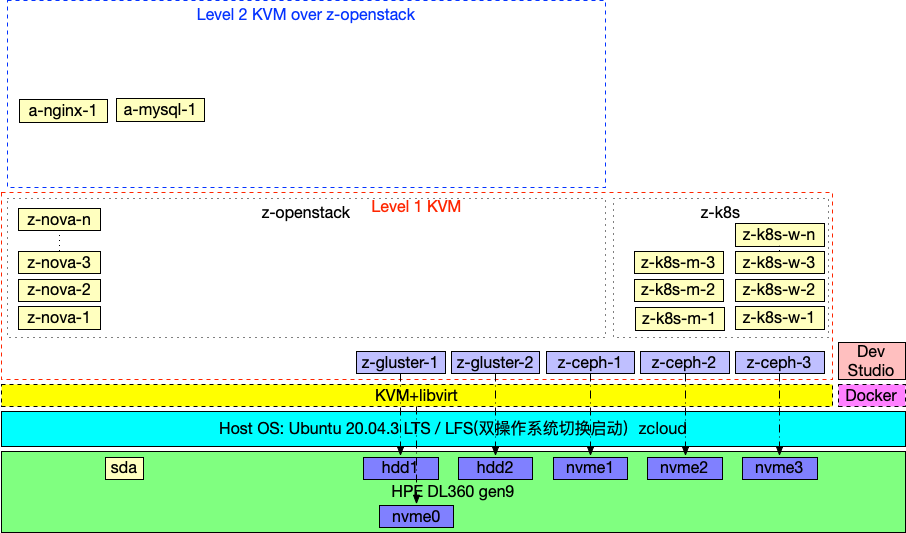
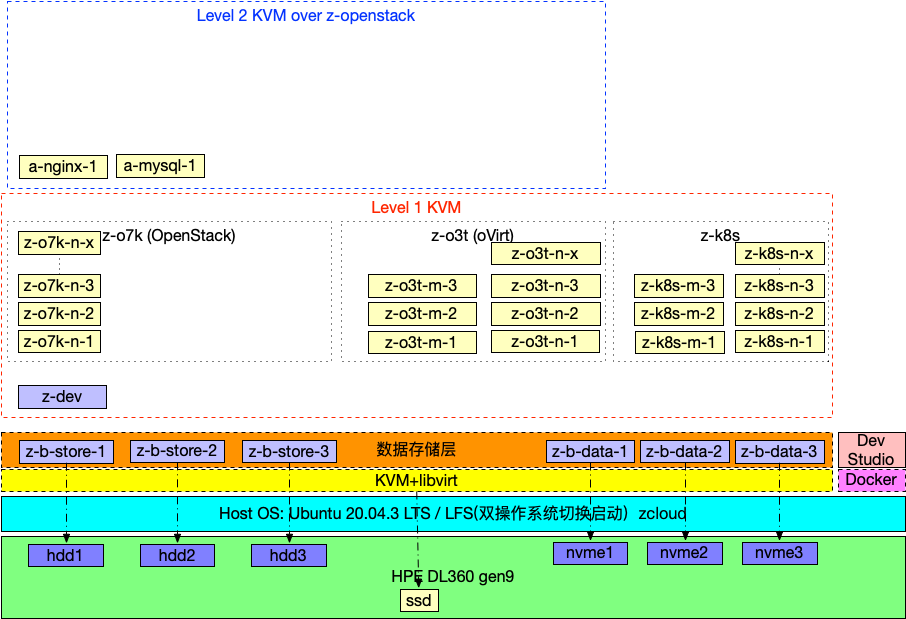
update

diff --git a/source/real/private_cloud/priv_cloud_infra.rst b/source/real/private_cloud/priv_cloud_infra.rst
@@ -73,7 +73,7 @@
 
       - :ref:`gluster`
 
-    - ``data`` : 技术服务数据服务:
+    - ``data`` : 基础服务数据服务:
 
       - :ref:`ceph`
       - :ref:`redis`
@@ -84,6 +84,54 @@
       - :ref:`pgsql`
 
   - 第四字段 表示节点序号数字
+
+虚拟化的层级部署
+=================
+
+数据存储层(data)
+----------------------
+
+在 ``zcloud`` 底层虚拟化上，我采用完全手工方式构建最基础的存储数据的虚拟机:
+
+- ``z-b-data-1`` / ``z-b-data-2`` / ``z-b-data-3`` 是通过 :ref:`ovmf` 虚拟机pass-through读写 :ref:`samsung_pm9a1` 的高性能存储虚拟机
+
+  - 所有依赖高速存储的基础服务，如 :ref:`ceph` / :ref:`mysql` / :ref:`redis` 等都部署在这3个虚拟机内部
+  - 这3个虚拟机只依赖 :ref:`kvm` 和 :ref:`libvirt` ，并且在物理主机启动时自动启动运行，提供基础数据服务
+  - :ref:`ceph` 是最关键的存储服务: 除了 ``数据存储层`` 这3台虚拟机直接存储数据之外，其他虚拟机(包括第一层虚拟化和第二层虚拟化)的磁盘镜像全部存储在 :ref:`ceph` 之中
+
+    - 你可以将这个数据存储层 Ceph 看成类似于阿里云的 ``盘古`` 分布式存储，开天劈地: 这样所有其他虚拟机都不需要占用本地磁盘(事实上作为 ``zcloud`` 主机的系统盘 ``ssd`` 空间非常狭小)
+    - 分布式存储提供了网络共享访问，同时提供了数据镜像容灾，这样运行的虚拟机可以在网络上不同的计算节点迁移: 例如，我可以在网络中加入我的笔记本或者台式机来模拟一个物理节点，共享访问Ceph存储，实现把虚拟机热迁移过去，从而减轻服务器的压力
+
+- ``z-b-store-1`` / ``z-b-store-2`` / ``z-b-store-3`` 是直接访问服务器上3块 2.5" 机械硬盘，提供 :ref:`gluster` 存储服务
+
+  - 数据备份和恢复
+  - 离线数据和近线数据存储，后续考虑实现一个容灾系统模拟
+  
+第一层虚拟化
+-----------------
+
+- ``z-o7k`` 系列构建 :ref:`openstack` 集群
+
+  - 采用 :ref:`ubuntu_linux` 20.04 部署
+  - 启用 :ref:`kvm_nested_virtual` 实现第二层虚拟化
+
+- ``z-o3t`` 系列构建 :ref:`ovirt` 集群
+
+  - 采用 :ref:`centos` 8 部署
+  - 启用 :ref:`kvm_nested_virtual` 实现第二层虚拟化
+  - 实现 :ref:`stratis` 存储
+
+- ``z-k8s`` 系列构建 :ref:`kubernetes` 集群
+
+  - 采用 :ref:`ubuntu_linux` 20.04 部署
+  - 采用 :ref:`vgpu` 将 :ref:`tesla_p10` 输出到多个工作节点虚拟机，实现分布式 :ref:`machine_learning`
+
+第一层虚拟化的虚拟机也采用手工方式部署，部署用于构建集群的虚拟机都采用 ``数据存储层`` 的 :ref:`ceph` ``RBD`` ，不使用任何本地磁盘: 虚拟机计算节点可以任意迁移。
+
+第二层虚拟化
+--------------
+
+- 基于第一层虚拟化部署的 :ref:`openstack` 和 :ref:`ovirt` 实现自动化部署
 
 Kubernetes私有云
 ==================

diff --git a/source/linux/storage/filesystem/gpt.rst b/source/linux/storage/filesystem/gpt.rst
@@ -1,0 +1,30 @@
+.. _gpt:
+
+===============
+GPT分区表
+===============
+
+GPT分区表支持多少分区?
+========================
+
+我在 :ref:`hpe_dl360_gen9` 服务器上安装 :ref:`samsung_pm9a1` :ref:`nvme` 存储，构建 :ref:`priv_cloud_infra` 所需要的存储服务。由于硬件设备有限，我计划在3块NVMe的 :ref:`ovmf` 虚拟机构建多种需要高速存储支持的服务: :ref:`ceph` , :ref:`redis` , :ref:`mysql` , :ref:`pgsql` ... 
+
+这就带来一个问题: 如果我不使用 :ref:`lvm` (性能考虑需要降低存储层次) 而采用简洁的分区表，那么一块磁盘究竟支持多少(primary)分区?
+
+我从开始学习计算机(第一本启蒙书是 《MS-DOS技术大全》)，就知道DOS的MBR分区只支持最多4个primary partition，即使将第4个分区改成扩展分区，也只能支持有限的26个英文字母命名的(扩展分区之上的)逻辑分区。显然，我不愿使用逻辑分区(一旦逻辑分区出错会毁掉所在扩展分区上所有逻辑分区)，但是4个主分区也不能满足我众多的服务部署要求。
+
+现代操作系统都开始使用GPT分区表，特别是2T以上磁盘只能使用GPT分区表。那么GPT分区表能否解决这个问题，GPT分区表最多直至多少分区呢?
+
+遇事不决问谷歌: 果然在Google搜索中输入 ``how many primary partitions are supported on gpt disks`` (其实是google提示) 赫然给出答案:
+
+``128 partitions``
+
+成了，可以直接使用GPT分区来构建之后多服务的虚拟机存储。不过，对于GPT分区表，我还需要再学习和巩固知识，后续补上...
+
+参考
+========
+
+- `wikipedia: GUID Partition Table <https://en.wikipedia.org/wiki/GUID_Partition_Table>`_
+- `What’s the Difference Between GPT and MBR When Partitioning a Drive? <https://www.howtogeek.com/193669/whats-the-difference-between-gpt-and-mbr-when-partitioning-a-drive/>`_
+- `Midrosoft Windows Manufacture Desktop manufacturing: UEFI/GPT-based hard drive partitions <https://docs.microsoft.com/en-us/windows-hardware/manufacture/desktop/configure-uefigpt-based-hard-drive-partitions?view=windows-11>`_
+- `What Is GPT Disk and How to Manage GPT Disk <https://www.easeus.com/partition-master/partition-gpt-disk.html>`_

diff --git a/source/kvm/iommu/compare_iommu_native_nvme.rst b/source/kvm/iommu/compare_iommu_native_nvme.rst
@@ -106,12 +106,22 @@
 
    我第一次测试 :ref:`ovmf` 虚拟机，设置了 ``1c2g`` 规格。实际上上述随机读写测试采用了4个job，我观察了实际上会把4个CPU核心打满。对于 ``1c2g`` 虚拟机由于只有1个cpu，会导致性能无法满足并发4个读写进程对要求: 测试结果读写性能只有物理主机的 1/4 不到
 
-   第二次测试我分配了4cpu的虚拟机，并发果然跑满4个vcpu之后，虚拟机存储性能基本上接近物理主机存储性能: 随机4k读写性能 92% ~ 94% ，顺序读写性能 99%
+   第二次测试我分配了4cpu的虚拟机，并发果然跑满4个vcpu之后，虚拟机存储性能基本上接近物理主机存储性能
 
 .. csv-table:: IOMMU虚拟机和物理机 NVMe性能对比
    :file: compare_iommu_native_nvme/compare_iommu_native_nvme.csv
-   :widths: 25, 25, 25, 25
+   :widths: 14, 15, 15, 15, 15, 15, 11
    :header-rows: 1
+
+- 采用 iommu 方式pass-through NVMe存储给虚拟机，结合了 :ref:`ovmf` (uefi)虚拟机 + :ref:`iommu_cpu_pinning` ，可以接近直接物理主机读写NVMe性能: 随机4k读写性能 92% ~ 94% ，顺序读写性能 99%
+
+  - 后续准备实践 :ref:`huge_memory_pages` 以及 :ref:`cpu_frequency_governor` 、 :ref:`isolating_pinned_cpus` 技术来进一步提高虚拟化性能
+
+- 由于我使用的二手 :ref:`hpe_dl360_gen9` 硬件是PCIe 3.0，所以对于 PCIe 3.0 x4 接口，最高只支持大约 3500 MB/s 接口速率，从我的 :ref:`fio` 测试来看
+
+  - 物理读写NVMe存储受限于PCIe3.0接口，只能获得顺序读写能力50%(已接近理想值)和随机读写能力77%
+  - 虚拟化消耗的存储性能不多，所以也能获得硬件顺序读写能力50%和随机读写能力72%
+  - 对于我的模拟测试环境，采用iommu虚拟化存储应该能过满足部署大规模云计算需求
 
 参考
 =========

diff --git a/source/kernel/memory/huge_memory_pages/intro_huge_memory_pages.rst b/source/kernel/memory/huge_memory_pages/intro_huge_memory_pages.rst
@@ -1,0 +1,21 @@
+.. _intro_huge_memory_pages:
+
+==================================
+内存大页(huge memory pages)简介
+==================================
+
+在 :ref:`kvm` 虚拟化技术中，提高虚拟机性能的有效手段之一就是采用内存大页，但是这项技术的使用有很多特定适用场景，使用不当可能产生 ``负优化`` ，所以需要仔细研究规划并实践验证。
+
+透明大页(transparent huge pages)
+=====================================
+
+静态大页(static huge pages)
+=============================
+
+动态大页(dynamic huge pages)
+==============================
+
+参考
+========
+
+- `PCI passthrough via OVMF: Huge memory pages <https://wiki.archlinux.org/title/PCI_passthrough_via_OVMF#Huge_memory_pages>`_

diff --git a/source/kvm/iommu/tunning/iommu_cpu_pinning.rst b/source/kvm/iommu/tunning/iommu_cpu_pinning.rst
@@ -22,7 +22,7 @@ CPU拓扑
 
 在 :ref:`hpe_dl360_gen9` 上 ``E5-2670 v3`` 处理器拓扑如下
 
-.. literalinclude:: ../../../kernel/cpu/intel/xeon_e5-2670_v3/lscpu_e5-2670_v3.txt
+.. literalinclude:: ../../../kernel/cpu/intel/xeon_e5/xeon_e5-2670_v3/lscpu_e5-2670_v3.txt
    :language: bash
    :linenos:
    :caption: XEON E5-2670 v3处理器拓扑
@@ -33,7 +33,7 @@ CPU拓扑
 
 在 :ref:`hpe_dl360_gen9` 上 ``E5-2670 v3`` 处理器NUMA结构如下
 
-.. literalinclude:: ../../../kernel/cpu/intel/xeon_e5-2670_v3/numa_e5-2670_v3.txt
+.. literalinclude:: ../../../kernel/cpu/intel/xeon_e5/xeon_e5-2670_v3/numa_e5-2670_v3.txt
    :language: bash
    :linenos:
    :caption: XEON E5-2670 v3处理器NUMA

diff --git a/source/kvm/iommu/tunning/isolating_pinned_cpus.rst b/source/kvm/iommu/tunning/isolating_pinned_cpus.rst
@@ -1,0 +1,12 @@
+.. _isolating_pinned_cpus:
+
+========================
+隔离pinned处理器性能优化
+========================
+
+采用 :ref:`iommu_cpu_pinning` 可以提升 :ref:`ovmf` 虚拟机访问PCIe直通设备的性能，但是pinned CPU依然会被Linux调度器调度其它非关键进程，从而影响关键应用性能稳定性。Linux操作系统提供了 ``isolating pinned CPUs`` 能力来解决这个问题。
+
+参考
+=====
+
+- `arch linux: PCI passthrough via OVMF >> Isolating pinned CPUs <https://wiki.archlinux.org/title/PCI_passthrough_via_OVMF#Isolating_pinned_CPUs>`_

diff --git a/source/linux/storage/filesystem/choice_linux_filesystem.rst b/source/linux/storage/filesystem/choice_linux_filesystem.rst
@@ -11,3 +11,4 @@ Linux文件系统选择
 
 - `Linux文件系统的未来 <https://github.com/huataihuang/cloud-atlas-draft/blob/master/os/linux/storage/filesystem/the_future_of_linux_filesystem.md>`_ 整理了一些文件系统选择的参考信息
 - `RHEL8 docs - Managing file system CHAPTER 1. OVERVIEW OF AVAILABLE FILE SYSTEMS <https://access.redhat.com/documentation/en-us/red_hat_enterprise_linux/8/html/managing_file_systems/overview-of-available-file-systems_managing-file-systems>`_
+- `XFS vs ext4 performance <https://unix.stackexchange.com/questions/525613/xfs-vs-ext4-performance>`_

diff --git a/source/kernel/cpu/intel/cpufreq/intro_cpufreq.rst b/source/kernel/cpu/intel/cpufreq/intro_cpufreq.rst
@@ -1,0 +1,12 @@
+.. _intro_cpufreq:
+
+=====================
+CPU性能伸缩技术概述
+=====================
+
+参考
+=======
+
+- `The Linux kernel user’s and administrator’s guide » Power Management » Working-State Power Management » CPU Performance Scaling <https://www.kernel.org/doc/html/v4.14/admin-guide/pm/cpufreq.html>`_
+- `Debian wiki: CpuFrequencyScaling <https://wiki.debian.org/CpuFrequencyScaling>`_
+- `arch linux: CPU frequency scaling <https://wiki.archlinux.org/title/CPU_frequency_scaling>`_

diff --git a/source/kernel/cpu/intel/xeon_e5/xeon_e5-2600_v3.rst b/source/kernel/cpu/intel/xeon_e5/xeon_e5-2600_v3.rst
@@ -28,7 +28,7 @@ Intel E5-2600 v3系列 ``Haswell`` 处理器在执行密集矢量任务(intensiv
 
 ``Haswell-EP`` 处理器售价和电能消耗相对较低，适合HPC用户。
 
-.. figure:: ../../../_static/kernel/cpu/intel/intel_e5-2600_v3_perf.png
+.. figure:: ../../../../_static/kernel/cpu/intel/xeon_e5/intel_e5-2600_v3_perf.png
    :scale: 60
 
 .. note::

diff --git a/source/kernel/memory/huge_memory_pages/index.rst b/source/kernel/memory/huge_memory_pages/index.rst
@@ -1,14 +1,14 @@
-.. _iommu_tunning:
+.. _huge_memory_pages:
 
 =================================
-IOMMU性能优化
+Linux内存大页
 =================================
 
 .. toctree::
    :maxdepth: 1
 
-   iommu_cpu_pinning.rst
-   isolating_pinned_cpus.rst
+   intro_huge_memory_pages.rst
+   hugetlb_page.rst
 
 .. only::  subproject and html
 

diff --git a/source/kernel/cpu/intel/cpufreq/index.rst b/source/kernel/cpu/intel/cpufreq/index.rst
@@ -1,0 +1,18 @@
+.. _cpufreq:
+
+========================================
+CPU频率 性能伸缩(Performance Scaling)
+========================================
+
+.. toctree::
+   :maxdepth: 1
+
+   intro_cpufreq.rst
+   cpu_frequency_governor.rst
+
+.. only::  subproject and html
+
+   Indices
+   =======
+
+   * :ref:`genindex`

diff --git a/source/kernel/cpu/intel/index.rst b/source/kernel/cpu/intel/index.rst
@@ -7,10 +7,9 @@ Intel CPU架构
 .. toctree::
    :maxdepth: 1
 
+   cpufreq/index
    intel_rdt/index
    intel_qat/index
    intel_sgx/index
    intel_vroc/index
-   xeon_e5-2600_v3.rst
-   xeon_e5-2670_v3.rst
-   xeon_e5-2600_v4.rst
+   xeon_e5/index
